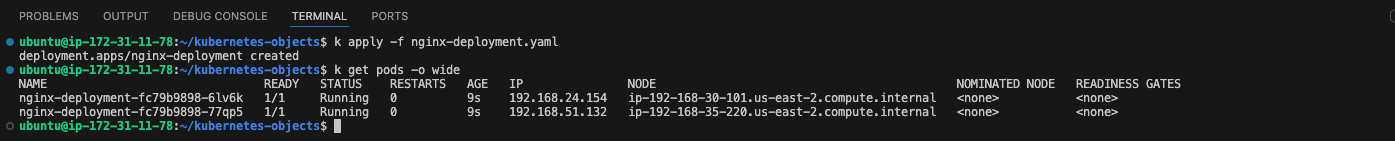
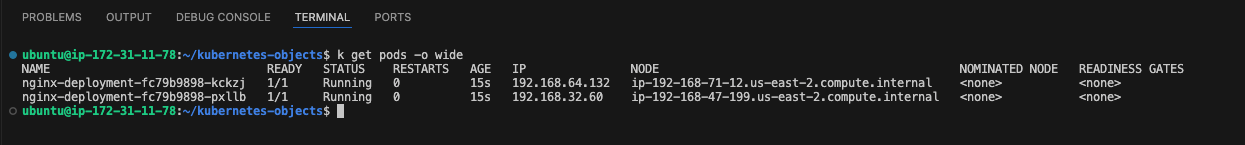
Project 26 - Complete

diff --git a/Project 26 - Container Orchestration with Kubernetes Part 3/README.md b/Project 26 - Container Orchestration with Kubernetes Part 3/README.md
@@ -19,8 +19,69 @@ In Kubernetes, data persistence refers to the ability to store and retain data b
   - For stateful applications like databases, using a managed database service outside of Kubernetes (e.g., Amazon RDS, Google Cloud SQL) may be a viable option.
   - Kubernetes can interact with these external services through services like ExternalName or through direct connectivity.
 
-Let's see how we can use the AWS EBS to persist data in our application. In Kubernetes, EBS volumes can be dynamically provisioned using the AWS EBS CSI (Container Storage Interface) driver. This allows Kubernetes clusters to dynamically create EBS volumes and attach them to pods based on PersistentVolumeClaims (PVCs) defined by users. However, we will be manually assigning EBS volumes to Pod at creation in this project.
-Before we begin, let's note the following:
+Let's see how we can use the AWS EBS to persist data in our application. In Kubernetes, EBS volumes can be dynamically provisioned using the AWS EBS Container Storage Interface (CSI) driver. This allows Kubernetes clusters to dynamically create EBS volumes and attach them to pods based on PersistentVolumeClaims (PVCs) defined by users.
+
+## Installing the AWS EBS Container Storage Interface (CSI)
+
+For this to work, we need to ensure the cluster are running on nodes greater the `t2.micro`. That's because the CSI driver will require more pods running on the nodes. If there aren't enough space in the nodes, this won't function as expected. Depending on how many pods you intend to run, the minimum requirement should be a `t2.small`.
+
+Let's first check to see if the driver is installed by runing the command below:
+
+- `k get pods -n kube-system`
+
+  ![alt text](Images/Img_15.png)
+  `after the installation is complete, we will run the command again to confirm the CSI pods are running`.
+
+- **Enable IAM OIDC provider**  
+  A prerequisite for the EBS CSI driver to work is to have an existing AWS Identity and Access Management (IAM) OpenID Connect (OIDC) provider for your cluster. This IAM OIDC provider can be enabled with the following command:
+
+  > ```bash
+  > eksctl utils associate-iam-oidc-provider \
+  >    --region=us-east-2 \
+  >    --cluster=demo-cluster \
+  >    --approve
+  > ```
+
+  ![alt text](Images/Img_13.png)
+
+- **Create Amazon EBS CSI driver IAM role**  
+  Next, we create the IAM Role to enable `eksctl` to manage the volumes;
+
+  > ```bash
+  > eksctl create iamserviceaccount \
+  >     --region us-east-2 \
+  >     --name ebs-csi-controller-sa \
+  >     --namespace kube-system \
+  >     --cluster demo-cluster \
+  >     --attach-policy-arn arn:aws:iam::aws:policy/service-role/AmazonEBSCSIDriverPolicy \
+  >     --approve \
+  >     --role-only \
+  >     --role-name AmazonEKS_EBS_CSI_DriverRole
+  > ```
+
+  ![alt text](Images/Img_14.png)
+
+- **Add the Amazon EBS CSI add-on**  
+  Now we can finally add the EBS CSI add-on. Therefor we also need the AWS Account id which we can obtain by running aws sts get-caller-identity --query Account --output text
+
+  > ```bash
+  > eksctl create addon \
+  >    --name aws-ebs-csi-driver \
+  >    --cluster demo-cluster \
+  > --service-account-role-arn arn:aws:iam::$(aws sts get-caller-identity --query Account --output text):role/AmazonEKS_EBS_CSI_DriverRole --force
+  > ```
+
+  ![alt text](Images/Img_16.png)
+
+- Finally, let's confirm the EBS CSI has been installed and configured properly in the cluster by running the code below:
+
+  - `k get pods -n kube-system`
+
+    ![alt text](Images/Img_17.png)
+
+We can now see the ebs-csi-controller pods runinng the the `kube-system` namespace.
+
+## Deploying a Persistent Pod
 
 - The is a continuation of [Deploying Applications in Kubernetes](https://github.com/iamYole/DIO-DevOps-Projects/blob/main/Project%2025%20-%20Container%20Orchestration%20with%20Kuburnetes%20Part%202/README.md), so we should have a running K8r cluster already to proceed.
 - For EBS to work in our K8r the nodes must be running on an EC2 Instance
@@ -61,7 +122,7 @@ For now, let's create a deployment file `nginx-deployment.yaml` and confirm the 
 
 - Check the logs of one of the running pods
 
-  - `k logs nginx-deployment-fc79b9898-6lv6k`
+  - `k logs nginx-deployment-fc79b9898-kckzj`
     > ```bash
     > /docker-entrypoint.sh: /docker-entrypoint.d/ is not empty, will attempt to perform configuration
     > /docker-entrypoint.sh: Looking for shell scripts in /docker-entrypoint.d/
@@ -72,14 +133,13 @@ For now, let's create a deployment file `nginx-deployment.yaml` and confirm the 
     > /docker-entrypoint.sh: Launching /docker-entrypoint.d/20-envsubst-on-templates.sh
     > /docker-entrypoint.sh: Launching /docker-entrypoint.d/30-tune-worker-processes.sh
     > /docker-entrypoint.sh: Configuration complete; ready for start up
-    > 2024/05/05 10:14:45 [notice] 1#1: using the "epoll" event method
-    > 2024/05/05 10:14:45 [notice] 1#1: nginx/1.25.5
-    > 2024/05/05 10:14:45 [notice] 1#1: built by gcc 12.2.0 (Debian 12.2.0-14)
-    > 2024/05/05 10:14:45 [notice] 1#1: OS: Linux 5.10.214-202.855.amzn2.x86_64
-    > 2024/05/05 10:14:45 [notice] 1#1: getrlimit(RLIMIT_NOFILE): 1048576:1048576
-    > 2024/05/05 10:14:45 [notice] 1#1: start worker processes
-    > 2024/05/05 10:14:45 [notice] 1#1: start worker process 30
-    > 2024/05/05 10:14:45 [notice] 1#1: start worker process 31
+    > 2024/05/06 21:09:02 [notice] 1#1: using the "epoll" event method
+    > 2024/05/06 21:09:02 [notice] 1#1: nginx/1.25.5
+    > 2024/05/06 21:09:02 [notice] 1#1: built by gcc 12.2.0 (Debian 12.2.0-14)
+    > 2024/05/06 21:09:02 [notice] 1#1: OS: Linux 5.10.214-202.855.amzn2.x86_64
+    > 2024/05/06 21:09:02 [notice] 1#1: getrlimit(RLIMIT_NOFILE): 1048576:1048576
+    > 2024/05/06 21:09:02 [notice] 1#1: start worker processes
+    > 2024/05/06 21:09:02 [notice] 1#1: start worker process 28
     > ```
 
 - To confirm the AZ a node is running, run the `describe` command on th node to get more details
@@ -88,7 +148,7 @@ For now, let's create a deployment file `nginx-deployment.yaml` and confirm the 
 
     ![alt text](Images/Img_02.png)
 
-  - `k describe node ip-192-168-35-220.us-east-2.compute.internal`
+  - `k describe node ip-192-168-47-199.us-east-2.compute.internal`
 
     ![alt text](Images/Img_03.png)
 
@@ -103,6 +163,8 @@ For now, let's create a deployment file `nginx-deployment.yaml` and confirm the 
   >       --query 'VolumeId' \
   >       --output text
   > ```
+
+It is important the volume has a tag called `KuberentesCluster` with a value of the name the name of the cluster.
 
 - Note the VolumeID
 
@@ -137,7 +199,7 @@ For now, let's create a deployment file `nginx-deployment.yaml` and confirm the 
   >       volumes: # Attaching the Volume
   >         - name: nginx-volume
   >           awsElasticBlockStore:
-  >             volumeID: "vol-09f4bef32a28cb203"
+  >             volumeID: "vol-09032b4bddc6469e0"
   >             fsType: ext4
   > ```
 
@@ -152,6 +214,16 @@ For now, let's create a deployment file `nginx-deployment.yaml` and confirm the 
     ![alt text](Images/Img_06.png)
 
     ![alt text](Images/Img_07.png)
+
+    If we run describe on the other pod, we should see an error saying it's not in the same AZ.
+
+- we can also confirm by running the cide belo:
+
+  > ```bash
+  > aws ec2 describe-volumes --volume-ids vol-09032b4bddc6469e0
+  > ```
+
+  ![alt text](Images/Img_18.png)
 
 At this point, even though the pod can be used for a stateful applications, the configuration is not yet complete. This is because, the volume is not yet mounted onto any specific filesystem inside the container. The directory /usr/share/nginx/html which holds the software/website code is still ephemeral, and if there is any kind of update to the index.html file, the new changes will only be there for as long as the pod is still running. If the pod dies after, all previously written data will be erased.
 
@@ -185,7 +257,7 @@ To complete the configuration, we will need to add another section to the deploy
 >       volumes:
 >         - name: nginx-volume
 >           awsElasticBlockStore:
->             volumeID: "vol-09f4bef32a28cb203"
+>             volumeID: "vol-09032b4bddc6469e0"
 >             fsType: ext4
 > ```
 
@@ -207,8 +279,6 @@ To complete the configuration, we will need to add another section to the deploy
   > ```
 
 - Access the application from a browser using the EC2 Instance Public IP and port `30000`
-
-  ![alt text](Images/Img_09.png)
 
 The page cannot be displayed. Thats simply because mounting a new filesystem to a directory with existing data erases the exiting data. Hence all the nginx web files have been lost. A more refined approach to address this challenge is to leverage Persistent Volumes and Persistent Volume Claims (PVCs) in Kubernetes.
 
@@ -365,14 +435,15 @@ Now lets check the dynamically created PV
 
 `kubectl get pv`
 
-> ```bash
-> NAME                                       CAPACITY   ACCESS MODES   RECLAIM POLICY   STATUS   CLAIM                        STORAGECLASS   REASON   AGE
-> pvc-cc79de3f-0029-4605-8686-5a127d90e43d   2Gi        RWO            Delete           Bound    default/nginx-volume-claim   gp2                     4s
-> ```
+![alt text](Images/Img_19.png)
 
-You can copy the PV Name and search in the AWS console. You will notice that the volum has been dynamically created there.
+You can copy the PV Name and search in the AWS console. You will notice that the volume has been dynamically created there. This volume was automatically created, and its different from the one created earlier.
 
-![alt text](<Images/lonely dp.jpeg>)
+![alt text](Images/Img_20.png)
+
+We can run a describe command on one of the pods and see the PVC was attached.
+
+![alt text](Images/Img_21.png)
 
 ### Approach 2 - Creating a ConfigMap
 
@@ -383,9 +454,8 @@ So rather than have 2 manifest files, you will define everything within the depl
 
 Delete the deployment, the PersistentVolumeClaim and the PersistentVolume:
 
-- `k delete deployment`
-- `k delete pvc`
-- `k delete pv`
+- `k delete deployment nginx-deployment`
+- `k delete pvc nginx-volume-claim`
 
 Using configMaps for persistence is not something you would consider for data storage. Rather it is a way to manage configuration files and ensure they are not lost as a result of Pod replacement.
 
@@ -393,10 +463,35 @@ To demonstrate this, we will use the HTML file that came with Nginx. This file c
 
 Lets go through the below process so that you can see an example of a configMap use case.
 
-- Remove the volumeMounts and PVC sections of the manifest and use kubectl to apply the configuration
+- Update the `nginx-deployment.yaml` file with the code below and then apply it
+  > ```yaml
+  > apiVersion: apps/v1
+  > kind: Deployment
+  > metadata:
+  >   name: nginx-deployment
+  >   labels:
+  >     tier: frontend
+  > spec:
+  >   replicas: 1
+  >   selector:
+  >     matchLabels:
+  >       tier: frontend
+  >   template:
+  >     metadata:
+  >       labels:
+  >         tier: frontend
+  >     spec:
+  >       containers:
+  >         - name: nginx
+  >           image: nginx:latest
+  >           ports:
+  >             - containerPort: 80
+  > ```
 - Exec into the running container and keep a copy of the index.html file somewhere.
 
-  > `kubectl exec -it nginx-deployment-6fdcffd8fc-6p9w8 -- bash`
+  ![alt text](Images/Img_22.png)
+
+  > `kubectl exec -it nginx-deployment-fc79b9898-q96v7 -- bash`
 
   > `cat /usr/share/nginx/html/index.html`
 
@@ -451,7 +546,7 @@ According to the official documentation of configMaps, A ConfigMap is an API obj
   >   labels:
   >     tier: frontend
   > spec:
-  >   replicas: 2
+  >   replicas: 1
   >   selector:
   >     matchLabels:
   >       tier: frontend
@@ -480,7 +575,7 @@ According to the official documentation of configMaps, A ConfigMap is an API obj
 
 - Now the `index.html` file is no longer ephemeral because it is using a configMap that has been mounted onto the filesystem. This is now evident when you exec into the pod and list the /usr/share/nginx/html directory
 
-  ![alt text](<Images/lonely dp.jpeg>)
+  ![alt text](Images/Img_23.png)
 
 You can now see that the index.html is now a soft link to ..data/index.html
 
@@ -494,7 +589,7 @@ List the available configmaps.
 
 > `k get configmap`
 
-![alt text](<Images/lonely dp.jpeg>)
+![alt text](Images/Img_24.png)
 
 We are interested in the website-index-file configmap
 
@@ -508,9 +603,11 @@ This command will open a text editor. You can now make the desired changes to th
 > <body bgcolor="blue"></body>
 > ```
 
+![alt text](Images/Img_25.png)
+
 Save the changes and Without restarting the pod, your site should be loaded automatically.
 
-![alt text](<Images/lonely dp.jpeg>)
+![alt text](Images/Img_26.png)
 
 Restart the deployment using the command
 
@@ -518,7 +615,8 @@ Restart the deployment using the command
 
 This will terminate the running pod and launch up a new one.
 
-![alt text](<Images/lonely dp.jpeg>)
+![alt text](Images/Img_27.png)
+Notice a new pod started and the old pod deleted
 
 The content in the browser remains unchanged despite restarting the deployment, which resulted in the termination of the previous pod and the creation of a new one.
 
